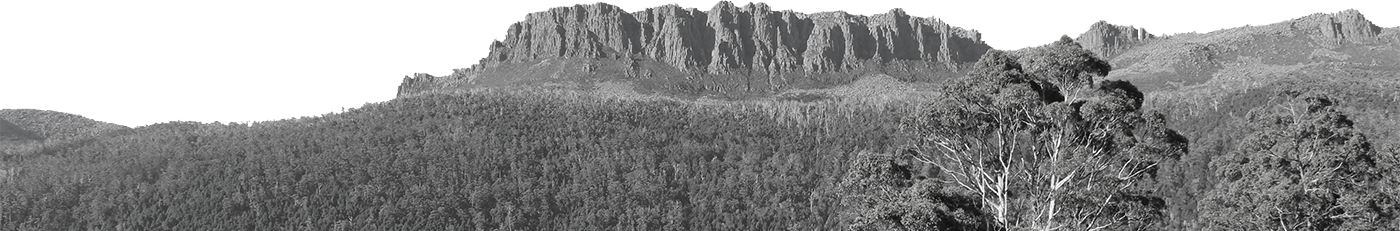
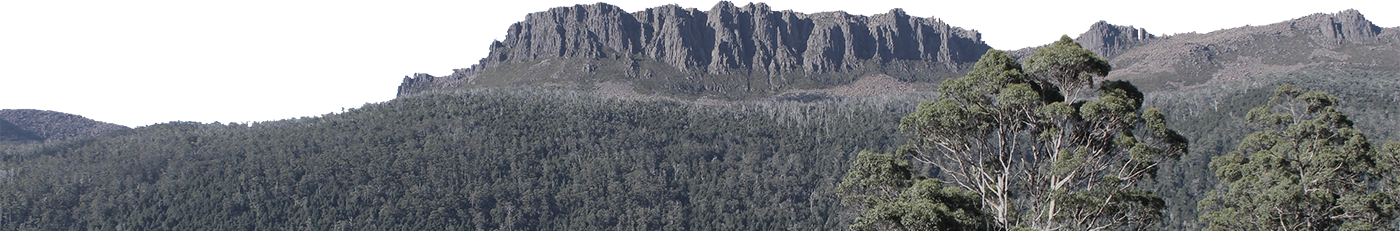
Adding some colour to the background

diff --git a/src/less/variables.less b/src/less/variables.less
@@ -47,8 +47,9 @@
 @site-colour-light: lighten(@site-base-colour, 20);
 @site-background-thick: fadeout(@site-colour-dark, 20%);
 @site-background-thin: fadeout(@site-colour-dark, 30%);
-@site-inverted-light: fadeout(@site-inverted-colour, 35%);
-@background-sky: #c1c3c4;
+@site-inverted-light: fadeout(@site-inverted-colour, 25%);
+@background-sky-start: #6383a9;
+@background-sky-end: #8FBAD0;
 
 /**
  * Timing variables

diff --git a/src/less/main.less b/src/less/main.less
@@ -41,7 +41,8 @@
  * Site global styles
  */
 .content {
-    background: @background-sky;
+    background: @background-sky-start;
+    background: -webkit-linear-gradient(@background-sky-start, @background-sky-end);
     min-height: ~"calc(100% - @{header-size} - @{footer-size})";
     padding: @gutter-size 0;
     position: relative;
